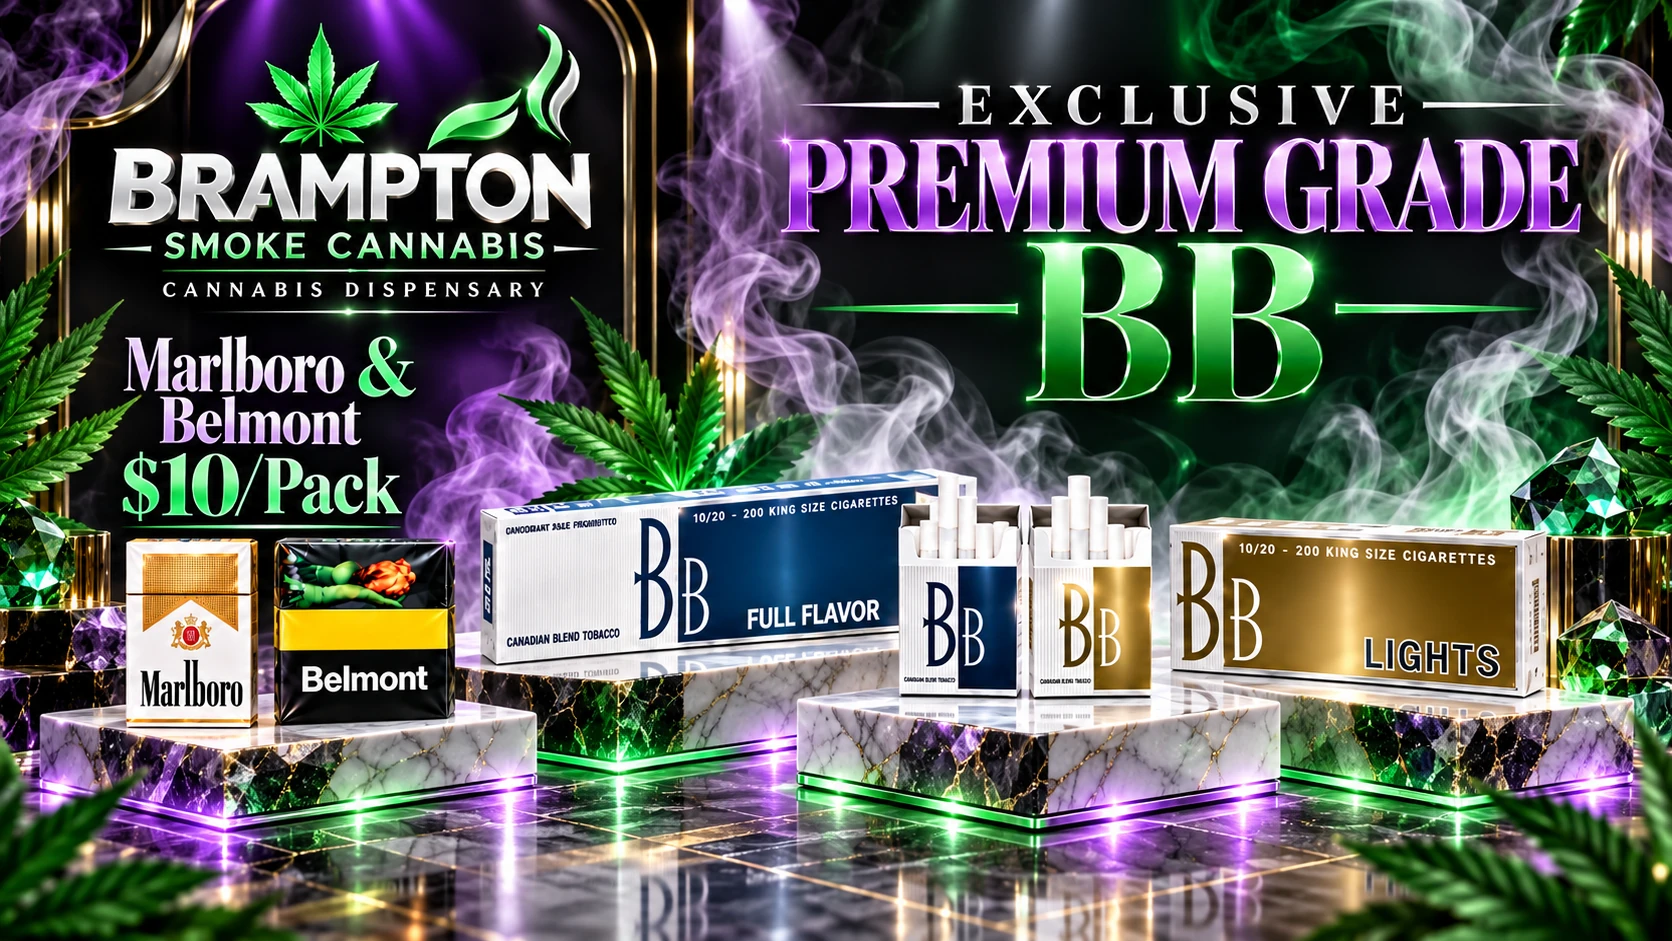
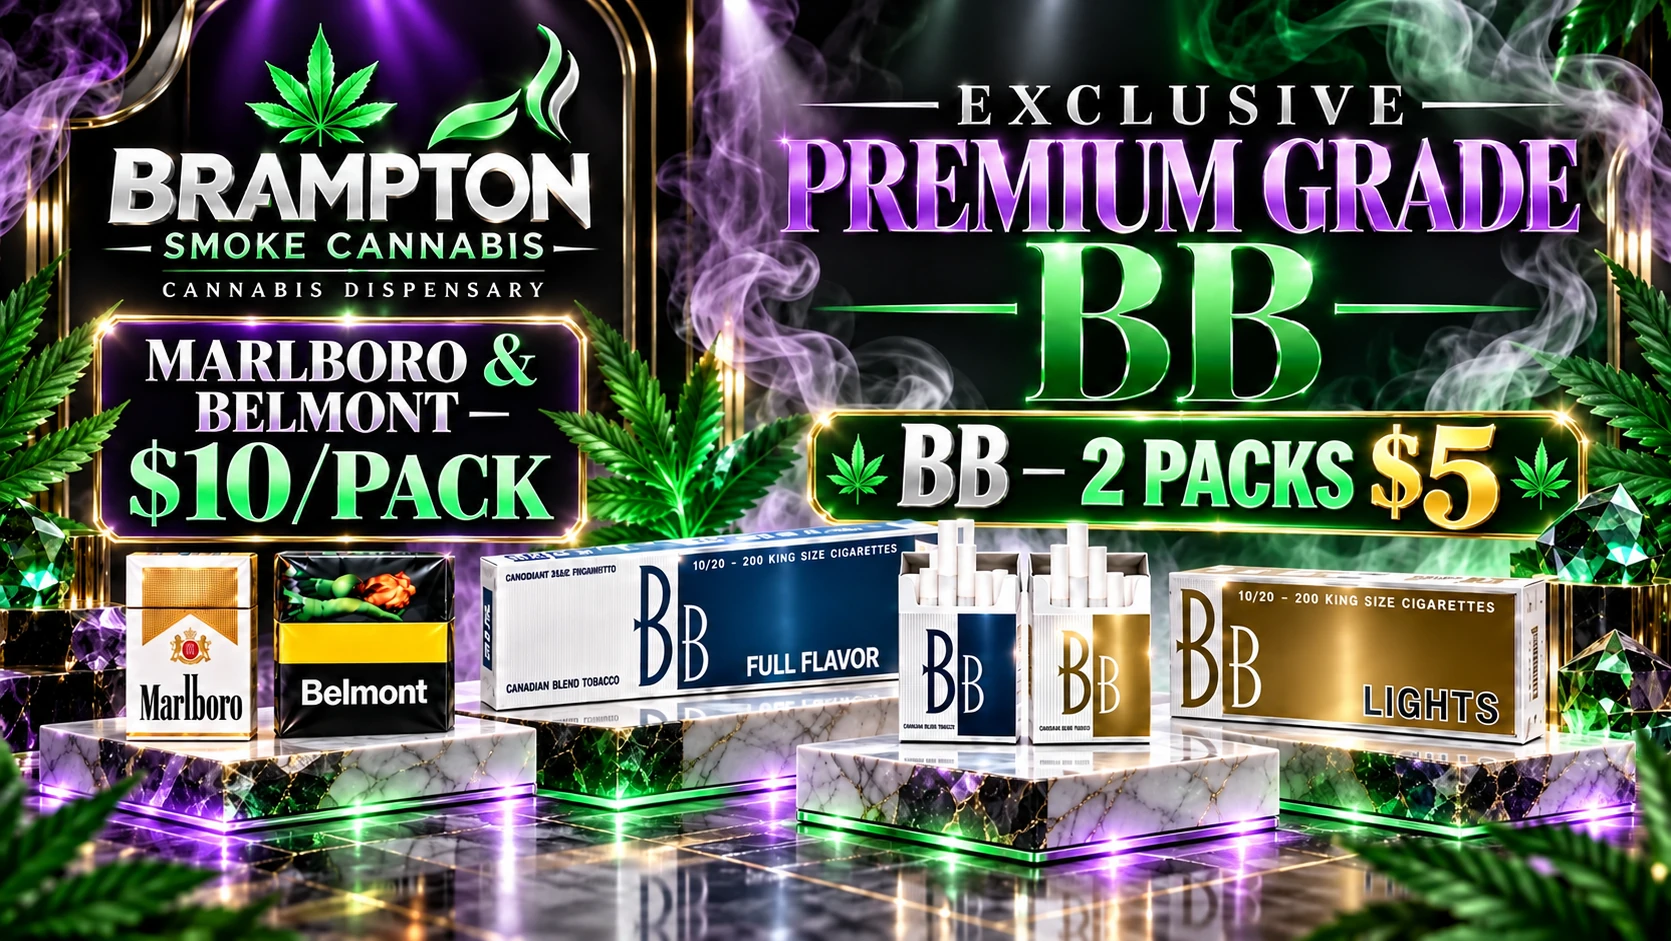
Add core promos to matching categories

diff --git a/app/components/CategoryCoreBanners.tsx b/app/components/CategoryCoreBanners.tsx
@@ -1,0 +1,52 @@
+import Link from "next/link";
+
+type CategoryCoreBannersProps = { kind: "weed" | "vapes" | "cigarettes" };
+
+const STORE_NAME = "Brampton Smoke Cannabis";
+const STORE_AREA = "Falby Road, Brampton";
+const STORE_ORIGIN = "https://www.bramptonsmokecannabis.com";
+const TOP_WEED_IMAGE = "/banners/top-weed-tier-bsc01.webp";
+const CIGARETTE_IMAGE = "/banners/native-cigarette-offer-20260822.webp";
+const VAPE_IMAGE = "/banners/core-vapes-nicotine-thc.webp";
+const PREMIUM_CIGARETTE_IMAGE = "/banners/core-premium-bb-marlboro-belmont.webp";
+
+export const cigaretteCategoryImage = {
+  alt: `${STORE_NAME} in ${STORE_AREA} — 2 packs for $5 mix and match and $25 carton cigarette offer`,
+  title: `${STORE_NAME} cigarette offer — 2 packs $5 mix and match, $25 carton`,
+};
+
+const promos = {
+  weed: { image: TOP_WEED_IMAGE, href: "/exotic-weed", alt: `${STORE_NAME} in ${STORE_AREA} — Exotic, Premium and AAA+ top weed tiers`, title: `${STORE_NAME} top weed tiers — Exotic, Premium and AAA+`, caption: "Exotic, Premium and AAA+ weed", linkLabel: "Shop weed tiers", schemaName: `${STORE_NAME} top weed tiers`, schemaDescription: `Exotic, Premium and AAA+ weed tiers at ${STORE_NAME} in ${STORE_AREA}.` },
+  vapes: { image: VAPE_IMAGE, href: "/items/vapes", alt: `${STORE_NAME} in ${STORE_AREA} — nicotine vapes and THC vapes`, title: `${STORE_NAME} nicotine vapes and THC vapes`, caption: "Nicotine vapes + THC vapes", linkLabel: "Shop vapes", schemaName: `${STORE_NAME} nicotine and THC vapes`, schemaDescription: `Nicotine vapes and THC vapes at ${STORE_NAME} in ${STORE_AREA}.` },
+  cigarettes: { image: CIGARETTE_IMAGE, href: "/items/cigarettes", alt: cigaretteCategoryImage.alt, title: cigaretteCategoryImage.title, caption: "2 packs $5 mix & match · $25 carton", linkLabel: "Shop cigarettes", schemaName: `${STORE_NAME} cigarette mix and match`, schemaDescription: `Two packs for $5 mix and match and $25 carton cigarette offer at ${STORE_NAME} in ${STORE_AREA}.` },
+  premium: { image: PREMIUM_CIGARETTE_IMAGE, href: "/items/cigarettes", alt: `${STORE_NAME} in ${STORE_AREA} — BB Full Flavor and Lights 2 packs for $5, Marlboro and Belmont $10 per pack`, title: `${STORE_NAME} premium cigarettes — BB 2 packs $5, Marlboro and Belmont $10 per pack`, caption: "BB Full Flavor + Lights — 2 packs $5 · Marlboro & Belmont — $10/pack", linkLabel: "Shop cigarettes", schemaName: `${STORE_NAME} premium cigarette offer`, schemaDescription: `BB Full Flavor and Lights two packs for $5 plus Marlboro and Belmont for $10 per pack at ${STORE_NAME} in ${STORE_AREA}.` },
+} as const;
+
+const figureStyle = { margin: 0, width: "100%" } as const;
+const imageStyle = { display: "block", width: "100%", maxWidth: "100%", height: "auto" } as const;
+const captionStyle = { margin: 0, padding: "14px 18px", background: "#111827", color: "#ffffff", textAlign: "center" as const, fontSize: "clamp(17px, 1.7vw, 28px)", fontWeight: 800, lineHeight: 1.35 };
+const captionLinkStyle = { color: "inherit", textDecoration: "underline", textUnderlineOffset: "3px" } as const;
+
+function PromoFigure({ promo, renderImage = true }: { promo: (typeof promos)[keyof typeof promos]; renderImage?: boolean }) {
+  return (
+    <figure data-category-core-banner={promo === promos.premium ? "premium-cigarettes" : promo === promos.cigarettes ? "cigarettes" : promo === promos.vapes ? "vapes" : "weed"} style={figureStyle}>
+      {renderImage ? <Link href={promo.href} aria-label={promo.alt} style={{ display: "block", width: "100%" }}>
+        {/* eslint-disable-next-line @next/next/no-img-element */}
+        <img src={promo.image} alt={promo.alt} title={promo.title} style={imageStyle} loading="lazy" />
+      </Link> : null}
+      <figcaption style={captionStyle}>{promo.caption} · <Link href={promo.href} style={captionLinkStyle}>{promo.linkLabel}</Link></figcaption>
+    </figure>
+  );
+}
+
+export default function CategoryCoreBanners({ kind }: CategoryCoreBannersProps) {
+  const visiblePromos = kind === "cigarettes" ? [promos.cigarettes, promos.premium] : [promos[kind]];
+  const imageObjects = visiblePromos.map((promo) => ({ "@type": "ImageObject", name: promo.schemaName, description: promo.schemaDescription, contentUrl: `${STORE_ORIGIN}${promo.image}` }));
+  return (
+    <section data-category-core-promos={kind} aria-label={`${STORE_NAME} ${kind} promotions`} style={{ width: "100%", maxWidth: "100%", overflowX: "hidden", marginBottom: "24px" }}>
+      <script type="application/ld+json" dangerouslySetInnerHTML={{ __html: JSON.stringify({ "@context": "https://schema.org", "@graph": imageObjects }).replace(/</g, "\\u003c") }} />
+      {kind === "cigarettes" ? <PromoFigure promo={promos.cigarettes} renderImage={false} /> : <PromoFigure promo={promos[kind]} />}
+      {kind === "cigarettes" ? <PromoFigure promo={promos.premium} /> : null}
+    </section>
+  );
+}

diff --git a/app/components/FleetAnnouncementBanner.tsx b/app/components/FleetAnnouncementBanner.tsx
@@ -16,7 +16,7 @@ const imageObjects = [
   { name: `${STORE_NAME} top weed tiers`, description: `Exotic, Premium and AAA+ weed tiers at ${STORE_NAME} in ${STORE_AREA}.`, contentUrl: `${STORE_ORIGIN}${TOP_WEED_IMAGE}` },
   { name: `${STORE_NAME} nicotine and THC vapes`, description: `Nicotine vapes and THC vapes at ${STORE_NAME} in ${STORE_AREA}.`, contentUrl: `${STORE_ORIGIN}${VAPE_IMAGE}` },
   { name: `${STORE_NAME} cigarette mix and match`, description: `Two packs for $5 mix and match and $25 carton cigarette offer at ${STORE_NAME} in ${STORE_AREA}.`, contentUrl: `${STORE_ORIGIN}${CIGARETTE_IMAGE}` },
-  { name: `${STORE_NAME} premium cigarette offer`, description: `BB Full Flavor and Lights plus Marlboro and Belmont cigarette offer at ${STORE_NAME} in ${STORE_AREA}.`, contentUrl: `${STORE_ORIGIN}${PREMIUM_CIGARETTE_IMAGE}` },
+  { name: `${STORE_NAME} premium cigarette offer`, description: `BB Full Flavor and Lights two packs for $5 plus Marlboro and Belmont for $10 per pack at ${STORE_NAME} in ${STORE_AREA}.`, contentUrl: `${STORE_ORIGIN}${PREMIUM_CIGARETTE_IMAGE}` },
 ].map((image) => ({ "@type": "ImageObject", ...image }));
 
 function isThanksgivingNoticeActive(date: Date) {
@@ -29,7 +29,7 @@ function isThanksgivingNoticeActive(date: Date) {
 const figureStyle = { margin: 0, width: "100%" } as const;
 const imageStyle = { display: "block", width: "100%", maxWidth: "100%", height: "auto" } as const;
 const linkStyle = { display: "block", width: "100%" } as const;
-const captionStyle = { margin: 0, padding: "10px 14px", background: "#111827", color: "#ffffff", textAlign: "center" as const, fontWeight: 800, lineHeight: 1.35 };
+const captionStyle = { margin: 0, padding: "14px 18px", background: "#111827", color: "#ffffff", textAlign: "center" as const, fontSize: "clamp(17px, 1.7vw, 28px)", fontWeight: 800, lineHeight: 1.35 };
 const captionLinkStyle = { color: "inherit", textDecoration: "underline", textUnderlineOffset: "3px" } as const;
 
 export default function FleetAnnouncementBanner() {
@@ -72,9 +72,9 @@ export default function FleetAnnouncementBanner() {
       <figure data-core-banner="premium-cigarettes" data-premium-cigarette-banner="" style={figureStyle}>
         <Link href="/items/cigarettes" aria-label={`Shop BB, Marlboro and Belmont cigarette offers at ${STORE_NAME}`} style={linkStyle}>
           {/* eslint-disable-next-line @next/next/no-img-element */}
-          <img src={PREMIUM_CIGARETTE_IMAGE} alt={`${STORE_NAME} in ${STORE_AREA} — BB Full Flavor and Lights, Marlboro and Belmont premium cigarettes`} title={`${STORE_NAME} premium cigarettes — BB, Marlboro and Belmont`} style={imageStyle} loading="lazy" />
+          <img src={PREMIUM_CIGARETTE_IMAGE} alt={`${STORE_NAME} in ${STORE_AREA} — BB Full Flavor and Lights 2 packs for $5, Marlboro and Belmont $10 per pack`} title={`${STORE_NAME} premium cigarettes — BB 2 packs $5, Marlboro and Belmont $10 per pack`} style={imageStyle} loading="lazy" />
         </Link>
-        <figcaption style={captionStyle}>BB Full Flavor + Lights · Marlboro &amp; Belmont $10/pack · <Link href="/items/cigarettes" style={captionLinkStyle}>Shop cigarettes</Link></figcaption>
+        <figcaption style={captionStyle}>BB Full Flavor + Lights — 2 packs $5 · Marlboro &amp; Belmont — $10/pack · <Link href="/items/cigarettes" style={captionLinkStyle}>Shop cigarettes</Link></figcaption>
       </figure>
 
       <FlowerBogoStrip hero />

diff --git a/app/items/[category]/page.tsx b/app/items/[category]/page.tsx
@@ -2,6 +2,7 @@ import { notFound } from "next/navigation";
 import type { Metadata } from "next";
 import Link from "next/link";
 import Navbar from "../../components/Navbar";
+import CategoryCoreBanners from "../../components/CategoryCoreBanners";
 import SafeImage from "../../components/SafeImage";
 import VapeConversionBlock from "../../components/VapeConversionBlock";
 import { getItemPriceDisplay } from "../../lib/itemPricing";
@@ -153,6 +154,9 @@ export default async function ItemsCategoryPage({
           </div>
         )}
       </section>
+
+      {(catSlug === "vapes" || catSlug === "vape-disposables") && <CategoryCoreBanners kind="vapes" />}
+      {catSlug === "cigarettes" && <CategoryCoreBanners kind="cigarettes" />}
 
       <section
         className={styles.categoryIntro}

diff --git a/app/[tier]/page.tsx b/app/[tier]/page.tsx
@@ -2,6 +2,7 @@ import { notFound } from "next/navigation";
 import type { Metadata } from "next";
 import Link from "next/link";
 import Navbar from "../components/Navbar";
+import CategoryCoreBanners from "../components/CategoryCoreBanners";
 import Footer from "../components/Footer";
 import FlowerCard from "../components/FlowerCard";
 import {
@@ -90,6 +91,8 @@ export default async function TierPage({
           className={styles.bannerImg}
         />
       </section>
+
+      {["EXOTIC", "PREMIUM", "AAA+"].includes(tierInfo.key.toUpperCase()) ? <CategoryCoreBanners kind="weed" /> : null}
 
       {/* ── Hero Content BELOW banner ── */}
       <section
